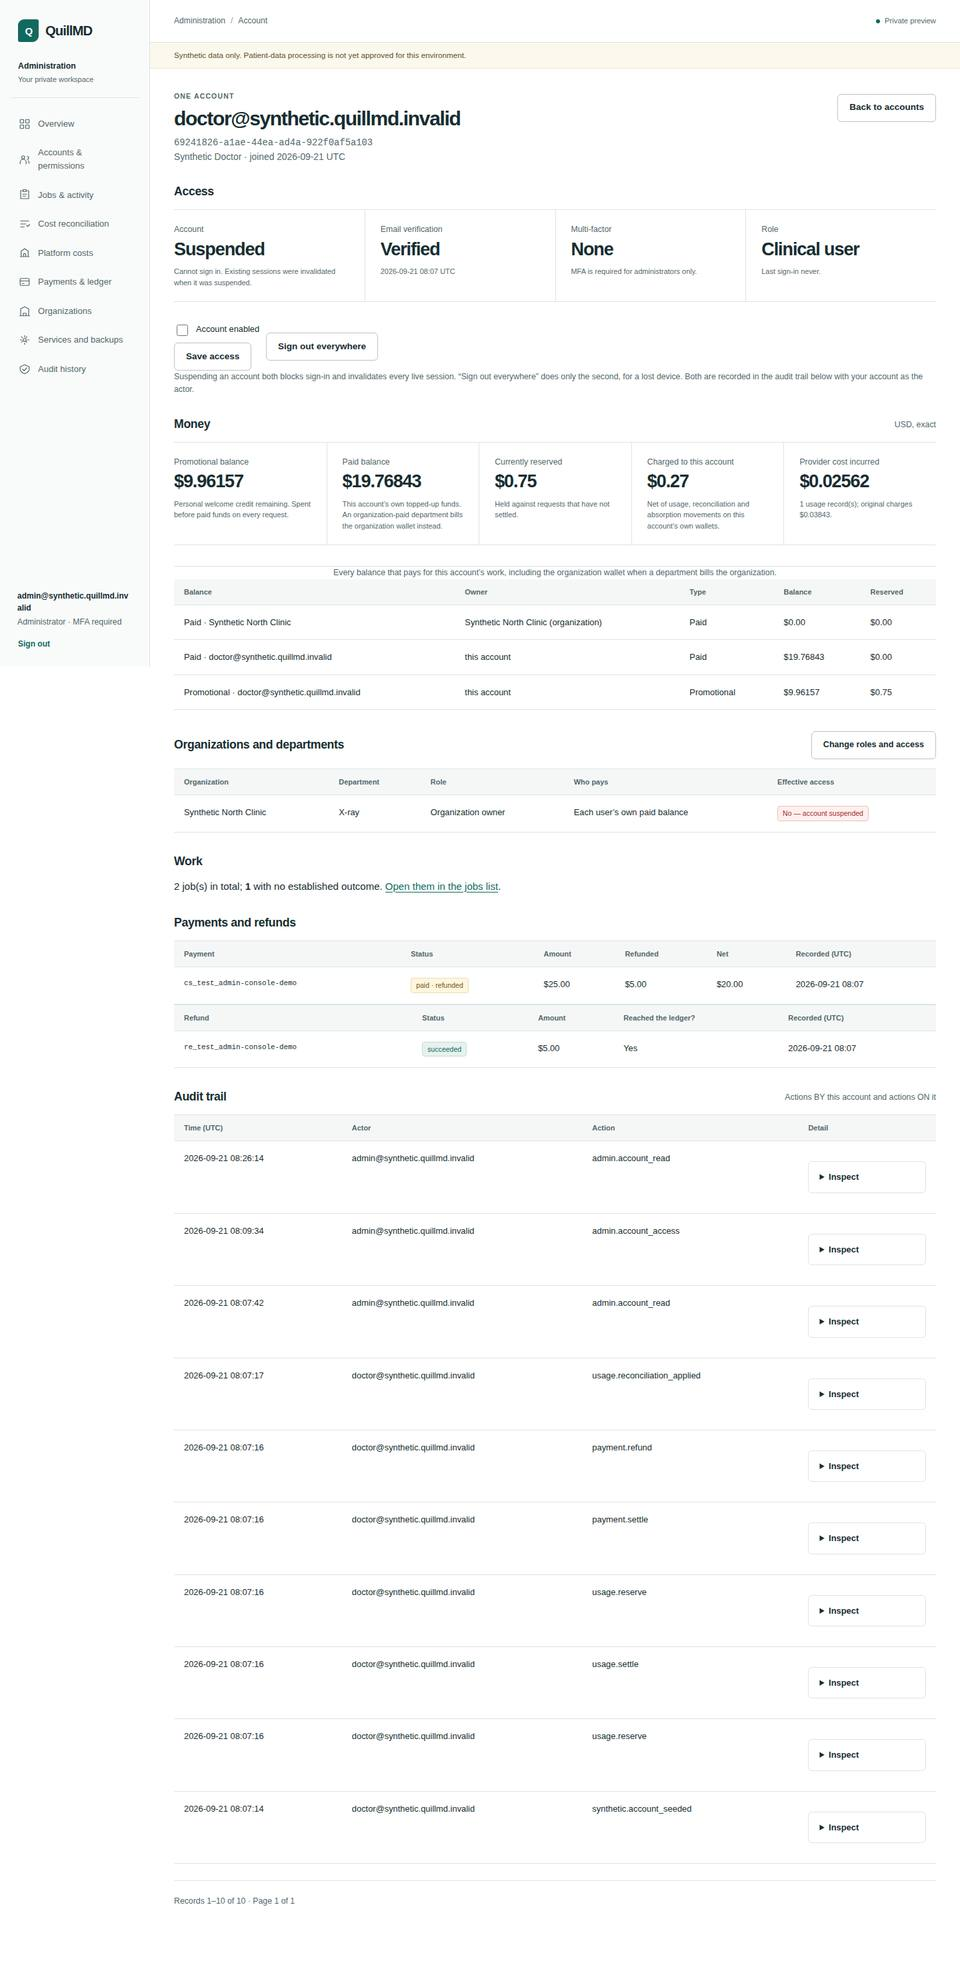
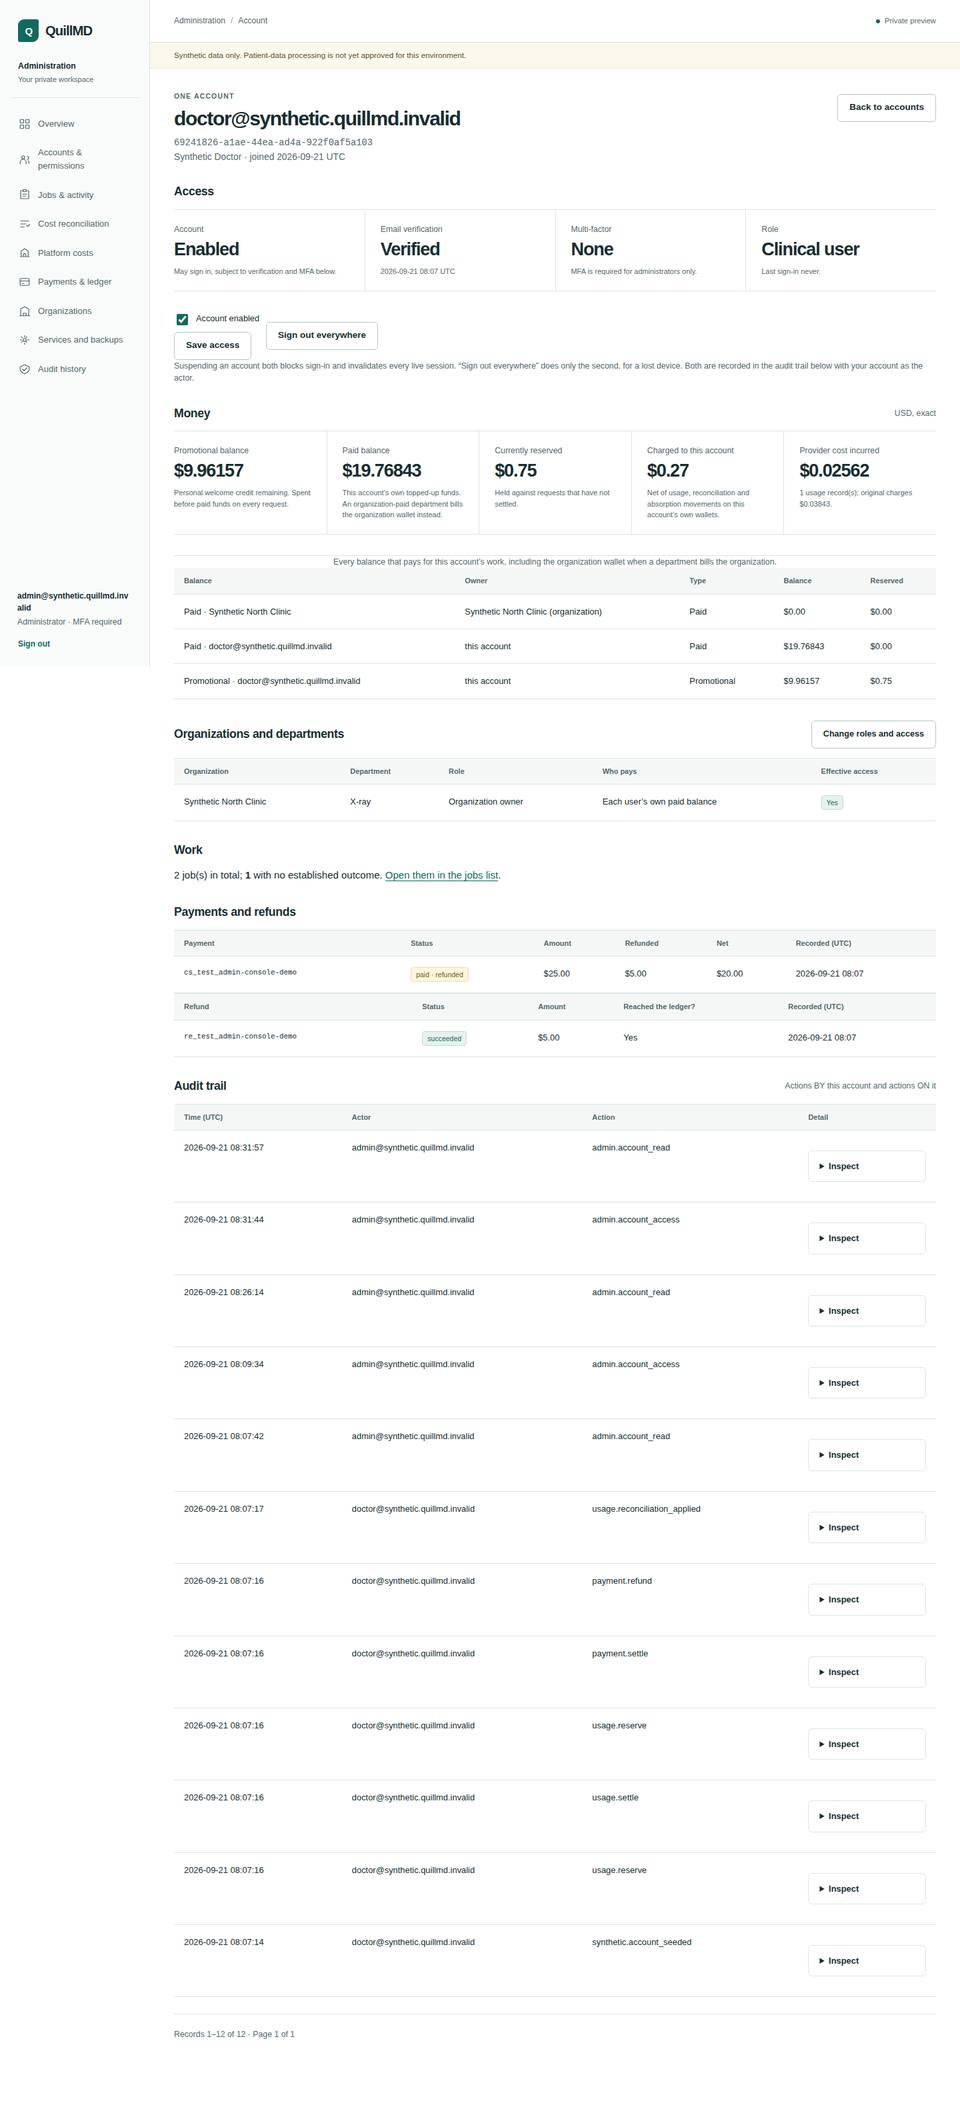
Make the account screenshot match what its caption claims, and walk two write workflows
The committed 05-account.jpg showed the demo doctor SUSPENDED. That was not the seeded
state — my own earlier debugging had posted the suspend toggle against the isolated
database while I was diagnosing a test string, and I never re-enabled it. The caption
described an enabled, verified account. An evidence image that does not match its own
caption is the small dishonesty this report exists to avoid, so the account was
re-enabled THROUGH THE CONSOLE (audited: active True, sessions_invalidated False) and
both affected images re-captured.

Also records two write workflows walked against the live isolated stack rather than the
test database, because the point of each is an effect the test client alone would not
show:

  * a role change from the console is honoured by `core.security.membership` — the
    function the product itself uses to decide access — so the change is real and not
    cosmetic;
  * a payer change creates the organization wallet and is audited from/to, and leaves
    `Job.payer` on existing jobs untouched, which is what the screen promises. That
    second line is the one that matters: an administrator explaining an old charge is
    not looking at a number this setting could have moved underneath them.

The predecessor 5bb73223 carried a full citation: 4 of 4 required contexts satisfied,
CI and secrets-scan both success, both run views quiet before this push.

diff --git a/docs/rebuild/admin-console-acceptance-20260921.md b/docs/rebuild/admin-console-acceptance-20260921.md
@@ -260,6 +260,37 @@ invoice evidence `$0.18` → new uncapped `$0.27`, under the limit, so delta `+$
 ledger: promotional `−$0.03843`, paid `−$0.23157` → **net charge $0.27**. Both wallets read
 "Ledger agrees".
 
+### Two write workflows walked against the live isolated stack
+
+Not through the test database — through the running server on `:9161`, against the seeded
+synthetic data, so the effect is observed rather than asserted.
+
+**A role change is honoured by the server, not merely displayed.** The check is
+`core.security.membership`, the function the product itself uses to decide access:
+
+```
+before: xray_employee@… is employee in X-ray
+server: may act as owner/clinician -> NO
+POST /console/memberships/<pk>/  302  -> role now clinician
+server: may act as owner/clinician -> YES      (the change is real, not cosmetic)
+audit : admin@… {'account': 'xray_employee@…', 'role_from': 'employee', 'role_to': 'clinician',
+                 'active_from': True, 'active_to': True}
+```
+
+**A payer change is not retrospective, which is what the screen promises.**
+
+```
+before: organization_pays=False, 4 jobs carry a recorded payer
+POST /console/departments/<pk>/payer/  302  -> organization_pays=True
+org paid wallet created                    : True
+recorded payers unchanged on existing jobs : True
+audit : admin@… {'organization_pays_from': False, 'organization_pays_to': True}
+```
+
+The second line is the one that matters: `Job.payer` is stamped when funds are first held and is
+never re-read from the department, so an administrator explaining an old charge is not looking at
+a number this setting could have moved underneath them.
+
 ### Tests
 Both runs are `bash scripts/ci/verify-fresh.sh python`, the same gate CI runs, each against its
 own isolated database.
